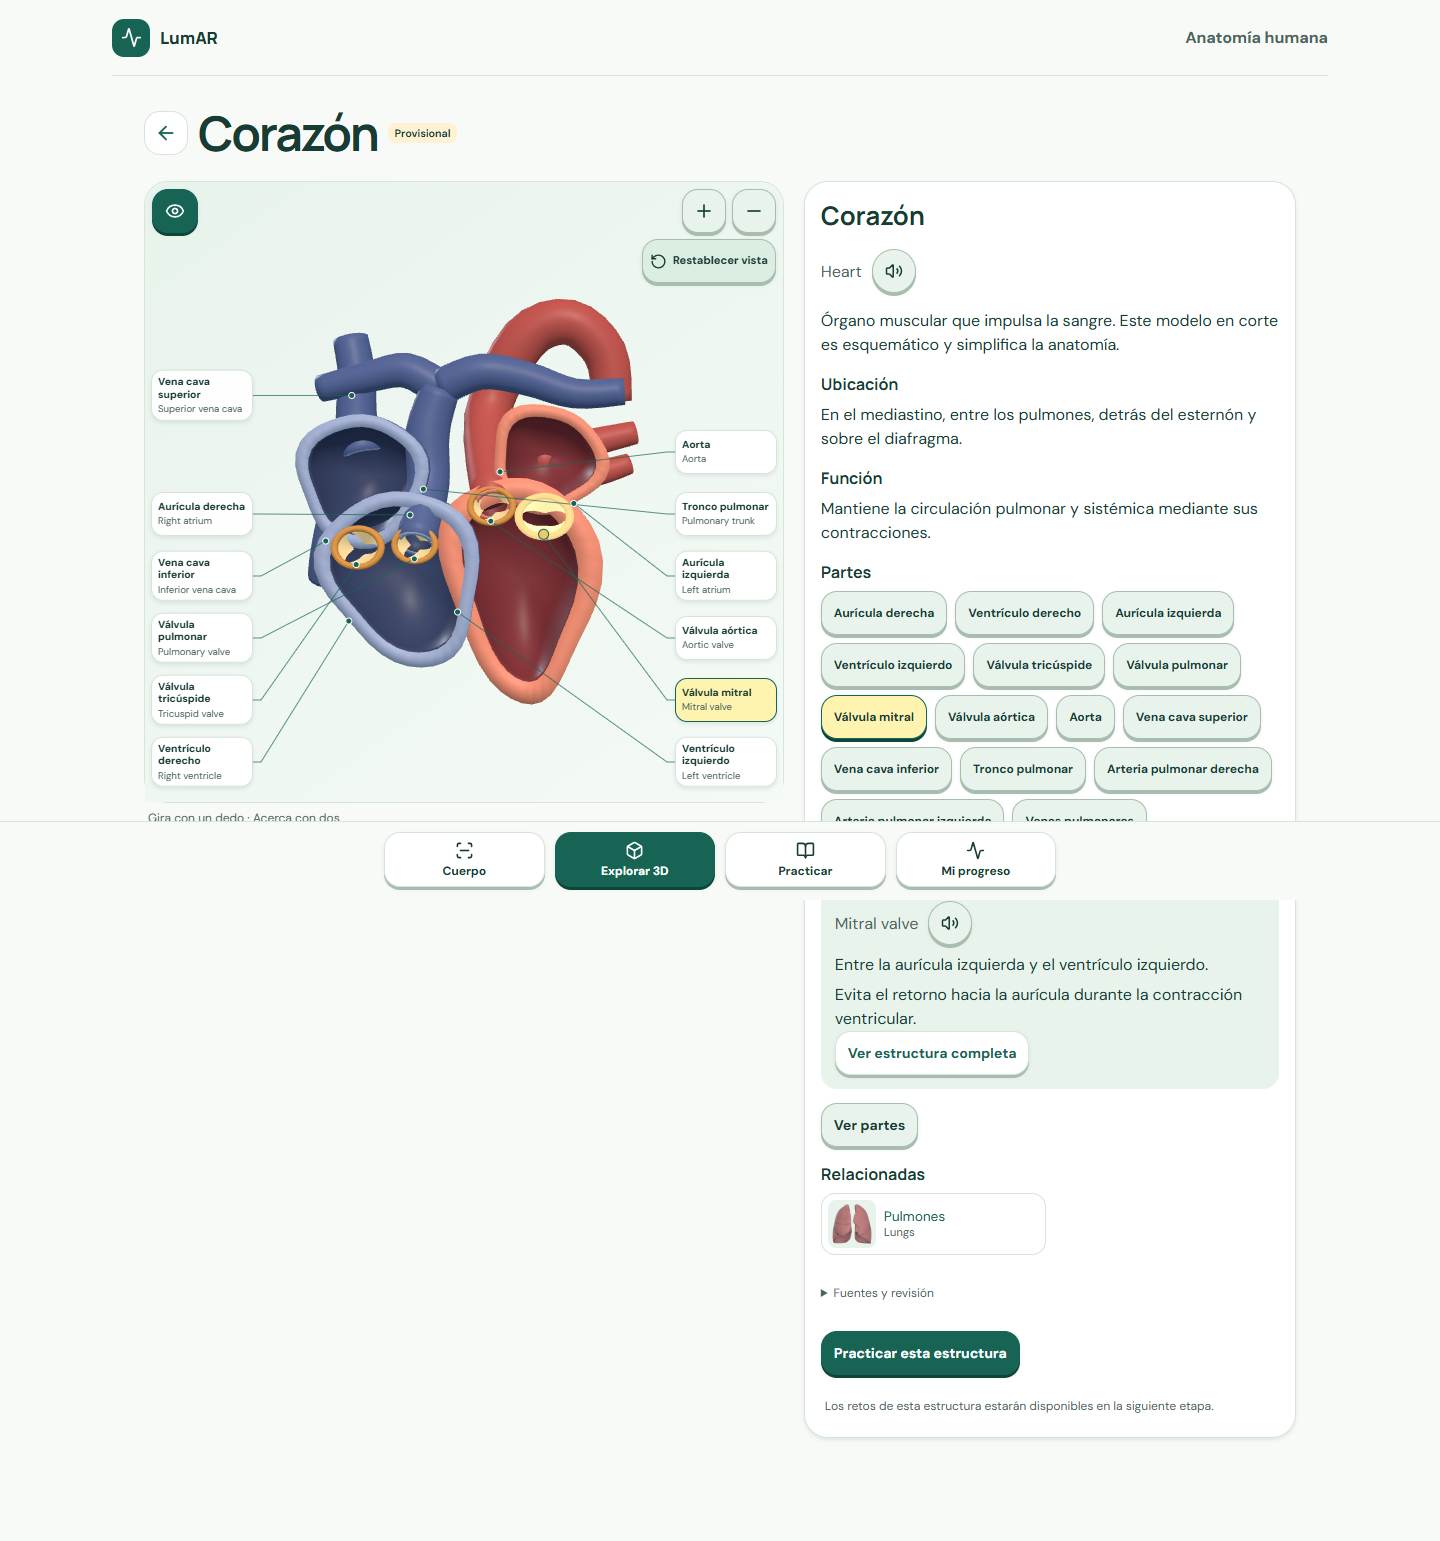
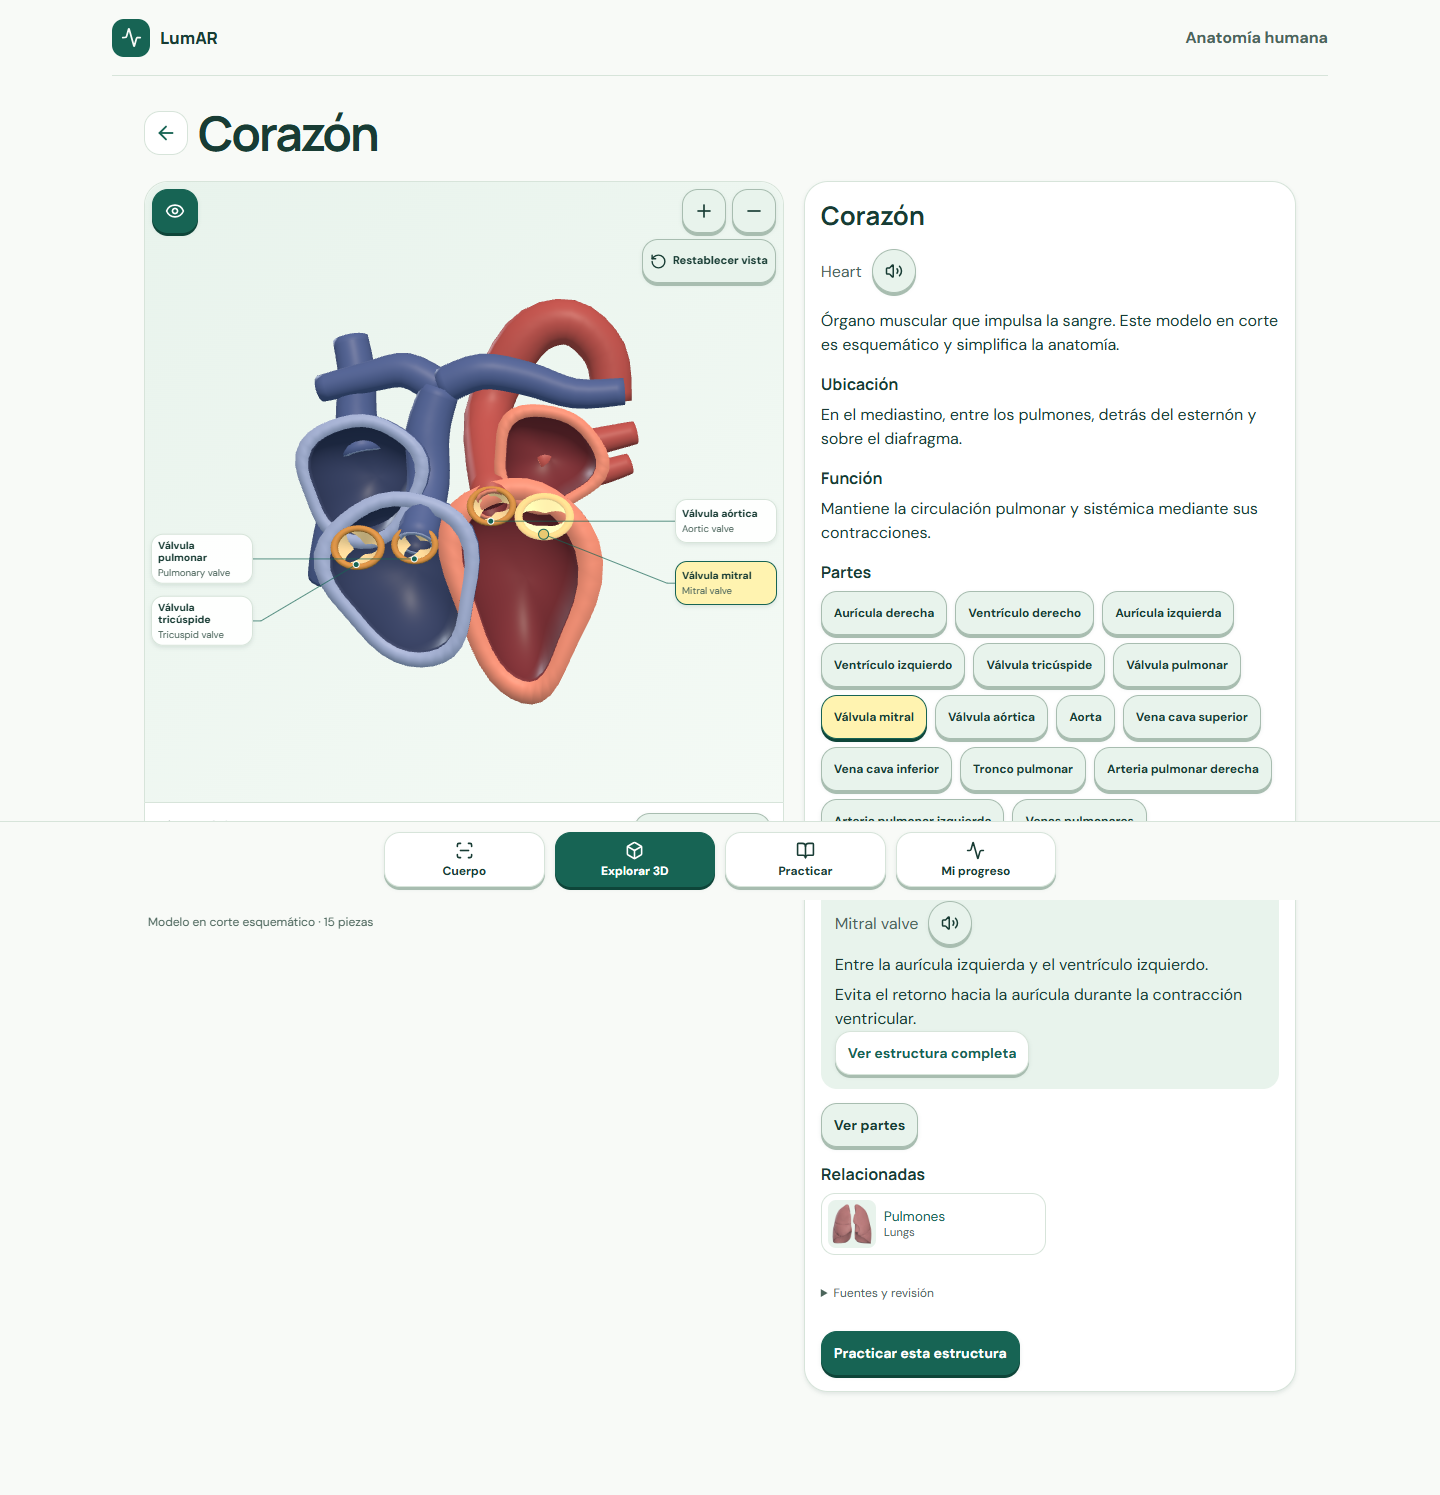
feat(explorar): cycle through heart label groups

diff --git a/src/features/explorar/Explorar.tsx b/src/features/explorar/Explorar.tsx
@@ -1,6 +1,7 @@
 import { lazy, Suspense, useEffect, useMemo, useRef, useState } from 'react';
-import { ArrowLeft, Eye, EyeOff } from 'lucide-react';
+import { ArrowLeft, ChevronRight, Eye, EyeOff } from 'lucide-react';
 import { categorias, estructuras } from '../../content/anatomy/catalogo';
+import { gruposEtiquetasCorazon } from '../../content/anatomy/corazon';
 import { modelos } from '../../content/anatomy/modelos';
 import { anotaciones } from '../../content/anotaciones/anatomia';
 import { retos } from '../../content/ejercicios/retos';
@@ -55,14 +56,19 @@ function Ficha({ item }: { item: Estructura }) {
   const tap = useRef({ x: 0, y: 0 });
   const [size, setSize] = useState({ width: 343, height: 420 });
   const [showLabels, setShowLabels] = useState(true);
+  const [groupIndex, setGroupIndex] = useState(0);
   const [selectedPart, setSelectedPart] = useState<string>();
   const [screenPoints, setScreenPoints] = useState<readonly Viewer3DProjectedAnchor[]>([]);
   const annotations = useMemo(() => anotaciones.filter(label => label.estructuraId === item.id), [item.id]);
   const anchors = useMemo(() => annotations.map(({ id, nodeId, punto }) => ({ id, nodeId, point: punto })), [annotations]);
   const selectedAnnotation = annotations.find(a => a.parteId === selectedPart);
   const selected = item.partes.find(p => p.id === selectedPart);
-  const labels = distribuirEtiquetas(screenPoints, size.width, size.height, selectedAnnotation?.id);
   const model = item.modelo && modelos[item.modelo.assetId];
+  const group = item.id === 'heart' && model ? gruposEtiquetasCorazon[groupIndex] : undefined;
+  const groupPoints = group ? screenPoints.filter(point =>
+    annotations.some(note => note.id === point.id && group.partes.includes(note.parteId)),
+  ) : screenPoints;
+  const labels = distribuirEtiquetas(groupPoints, size.width, size.height, selectedAnnotation?.id);
   const related = estructuras.filter(i => item.relacionadas.includes(i.id));
   const practices = retos.filter(r => r.estructurasRelacionadas.includes(item.id));
   const practiceLink = practices.length === 1 ? `#practicar/retos/${practices[0].id}` : `#practicar/retos/estructura/${item.id}`;
@@ -82,6 +88,13 @@ function Ficha({ item }: { item: Estructura }) {
     return () => observer.disconnect();
   }, []);
 
+  function selectPart(partId?: string) {
+    setSelectedPart(partId);
+    if (!group || !partId || group.partes.includes(partId)) return;
+    const index = gruposEtiquetasCorazon.findIndex(candidate => candidate.partes.includes(partId));
+    if (index >= 0) setGroupIndex(index);
+  }
+
   const selectNode = (id: string | null) => {
     const candidates = annotations.filter(a => a.nodeId === id || id?.startsWith(`${a.nodeId}_geometry`));
     const distance = (note: typeof annotations[number]) => {
@@ -89,7 +102,7 @@ function Ficha({ item }: { item: Estructura }) {
       return p ? Math.hypot(p.x-tap.current.x, p.y-tap.current.y) : Infinity;
     };
     const part = candidates.sort((a,b) => distance(a)-distance(b))[0];
-    setSelectedPart(part?.parteId);
+    selectPart(part?.parteId);
   };
 
   return <section className="lumar-page explorar-page">
@@ -98,7 +111,7 @@ function Ficha({ item }: { item: Estructura }) {
       <h1>{item.nombreEs}</h1>
     </header>
     <div className="explorar-detail">
-      <div className="explorar-view" ref={frame} onPointerUpCapture={event => {
+      <div className={group ? 'explorar-view explorar-view--grouped' : 'explorar-view'} ref={frame} onPointerUpCapture={event => {
         const stage = frame.current?.querySelector('.viewer3d__stage')?.getBoundingClientRect();
         if (stage) tap.current = { x: event.clientX-stage.left, y: event.clientY-stage.top };
       }}>
@@ -123,6 +136,17 @@ function Ficha({ item }: { item: Estructura }) {
             </>}
           </Viewer3D>
         </Suspense> : <ContentState state="unavailable" title="Modelo 3D no disponible"/>}
+        {group && <div className="explorar-label-groups" role="group" aria-label="Grupos de etiquetas del corazón">
+          <div role="status" className="explorar-label-status">
+            <span>Etiquetas {groupIndex + 1} de {gruposEtiquetasCorazon.length}</span>
+            <strong>{group.nombre}</strong>
+          </div>
+          <Button variant="secondary" onClick={() => {
+            setGroupIndex((groupIndex + 1) % gruposEtiquetasCorazon.length);
+            setSelectedPart(undefined);
+            setShowLabels(true);
+          }}>Siguiente grupo<ChevronRight size={16} aria-hidden="true"/></Button>
+        </div>}
         {annotations.length > 0 && <Button className="explorar-toggle" variant="secondary" aria-label={showLabels ? 'Ocultar etiquetas' : 'Mostrar etiquetas'} aria-pressed={showLabels} onClick={() => setShowLabels(s => !s)}>
           {showLabels ? <Eye size={20}/> : <EyeOff size={20}/>}
         </Button>}
@@ -135,7 +159,7 @@ function Ficha({ item }: { item: Estructura }) {
         <section><h3>Función</h3><p>{item.funcion}</p></section>
         {item.partes.length > 0 && <section>
           <h3>Partes</h3><div className="explorar-parts" role="group" aria-label="Seleccionar parte anatómica">
-            {item.partes.map(part => <Button variant="secondary" key={part.id} aria-pressed={part.id === selectedPart} onClick={() => setSelectedPart(part.id)}>{part.nombreEs}</Button>)}
+            {item.partes.map(part => <Button variant="secondary" key={part.id} aria-pressed={part.id === selectedPart} onClick={() => selectPart(part.id)}>{part.nombreEs}</Button>)}
           </div>
           {selected && <section className="explorar-part-detail" aria-label="Parte seleccionada" aria-live="polite">
             <h3>{selected.nombreEs}</h3><EnglishTerm term={selected.terminoEn}/><p>{selected.ubicacion}</p><p>{selected.funcion}</p>

diff --git a/tests/browser/explorar.spec.ts b/tests/browser/explorar.spec.ts
@@ -15,6 +15,18 @@ for (const width of [375, 1440]) test(`Explorar: catálogo y corazón a ${width}
   await page.getByRole('link', { name: /Ver corazón/i }).click();
   await expect(page.locator('[data-viewer-state="ready"]')).toBeVisible();
   await expect(page.locator('.explorar-parts button')).toHaveCount(15);
+  const grupos = page.getByRole('group', { name: 'Grupos de etiquetas del corazón' });
+  const siguiente = grupos.getByRole('button', { name: 'Siguiente grupo' });
+  const etiquetas = page.locator('.explorar-atlas-label strong');
+  const vistas = new Set<string>();
+  for (const [grupo, cantidad] of [['Cámaras', 4], ['Válvulas', 4], ['Aorta y venas cavas', 3], ['Vasos pulmonares', 4]] as const) {
+    await expect(grupos.getByRole('status')).toContainText(grupo);
+    await expect(etiquetas).toHaveCount(cantidad);
+    for (const nombre of await etiquetas.allTextContents()) vistas.add(nombre);
+    await siguiente.click();
+  }
+  expect([...vistas].sort()).toEqual((await page.locator('.explorar-parts button').allTextContents()).sort());
+  await expect(grupos.getByRole('status')).toContainText('Cámaras');
   const point = await page.locator('.explorar-leaders circle').first().evaluate(n => ({ x: Number(n.getAttribute('cx')), y: Number(n.getAttribute('cy')) }));
   await page.locator('canvas').click({ position: point });
   await expect(page.locator('.explorar-parts button[aria-pressed="true"]')).toHaveCount(1);
@@ -22,7 +34,9 @@ for (const width of [375, 1440]) test(`Explorar: catálogo y corazón a ${width}
   await selected.click();
   await expect(selected).toHaveAttribute('aria-pressed', 'true');
   await expect(page.getByRole('region', { name: 'Parte seleccionada' })).toContainText('Mitral valve');
-  await expect(page.locator('.explorar-atlas-label')).toHaveCount(width === 375 ? 6 : 12);
+  await expect(grupos.getByRole('status')).toContainText('Válvulas');
+  await expect(page.locator('.explorar-atlas-label')).toHaveCount(4);
+  await expect(page.locator('.explorar-atlas-label[aria-pressed="true"]')).toContainText('Válvula mitral');
   await page.getByRole('button', { name: 'Ocultar etiquetas' }).click();
   await expect(page.locator('.explorar-atlas-label')).toHaveCount(0);
   await page.getByRole('button', { name: 'Mostrar etiquetas' }).click();

diff --git a/src/features/explorar/explorar.css b/src/features/explorar/explorar.css
@@ -20,6 +20,15 @@
 .explorar-view .viewer3d__controls { position: absolute; right: 8px; top: 8px; z-index: 1; padding: 0; border: 0; gap: 6px; max-width: 190px; justify-content: flex-end; }
 .explorar-view .viewer3d__controls button { font-size: .7rem; padding: 7px; }
 .explorar-toggle { position: absolute; left: 8px; top: 8px; z-index: 1; }
+.explorar-view--grouped .viewer3d { border-radius: var(--radius-panel) var(--radius-panel) 0 0; }
+.explorar-label-groups {
+  display: flex; align-items: center; justify-content: space-between; gap: 10px;
+  padding: 10px 12px 13px; border: 1px solid var(--line); border-top: 0;
+  border-radius: 0 0 var(--radius-panel) var(--radius-panel); background: var(--white);
+}
+.explorar-label-status { display: grid; gap: 2px; font-size: .86rem; }
+.explorar-label-status span { color: var(--muted); font-size: .72rem; }
+.explorar-label-groups .button { flex: none; padding-inline: 8px; font-size: .78rem; }
 .explorar-leaders { position: absolute; inset: 0; overflow: hidden; pointer-events: none; }
 .explorar-leaders path { fill: none; stroke: var(--forest); stroke-width: 1; opacity: .7; }
 .explorar-leaders circle { fill: var(--forest); stroke: white; stroke-width: 1; }

diff --git a/src/content/anatomy/corazon.ts b/src/content/anatomy/corazon.ts
@@ -4,6 +4,14 @@ export const revisionCorazon: Revision = {
   estado: 'provisional',
   fuentes: [{ titulo: 'OpenStax · Heart Anatomy', url: 'https://openstax.org/books/anatomy-and-physiology-2e/pages/19-1-heart-anatomy' }],
 };
+
+export const gruposEtiquetasCorazon: readonly { nombre: string; partes: readonly string[] }[] = [
+  { nombre: 'Cámaras', partes: ['right_atrium', 'right_ventricle', 'left_atrium', 'left_ventricle'] },
+  { nombre: 'Válvulas', partes: ['tricuspid_valve', 'pulmonary_valve', 'mitral_valve', 'aortic_valve'] },
+  { nombre: 'Aorta y venas cavas', partes: ['aorta', 'superior_vena_cava', 'inferior_vena_cava'] },
+  { nombre: 'Vasos pulmonares', partes: ['pulmonary_trunk', 'right_pulmonary_artery', 'left_pulmonary_artery', 'pulmonary_veins'] },
+];
+
 // IDs exactos de las quince mallas del modelo esquemático existente.
 export const partesCorazon: readonly ParteAnatomica[] = [
   { id: 'right_atrium', nombreEs: 'Aurícula derecha', terminoEn: 'Right atrium', ubicacion: 'Cámara superior derecha.', funcion: 'Recibe el retorno venoso sistémico y lo conduce al ventrículo derecho.' },
